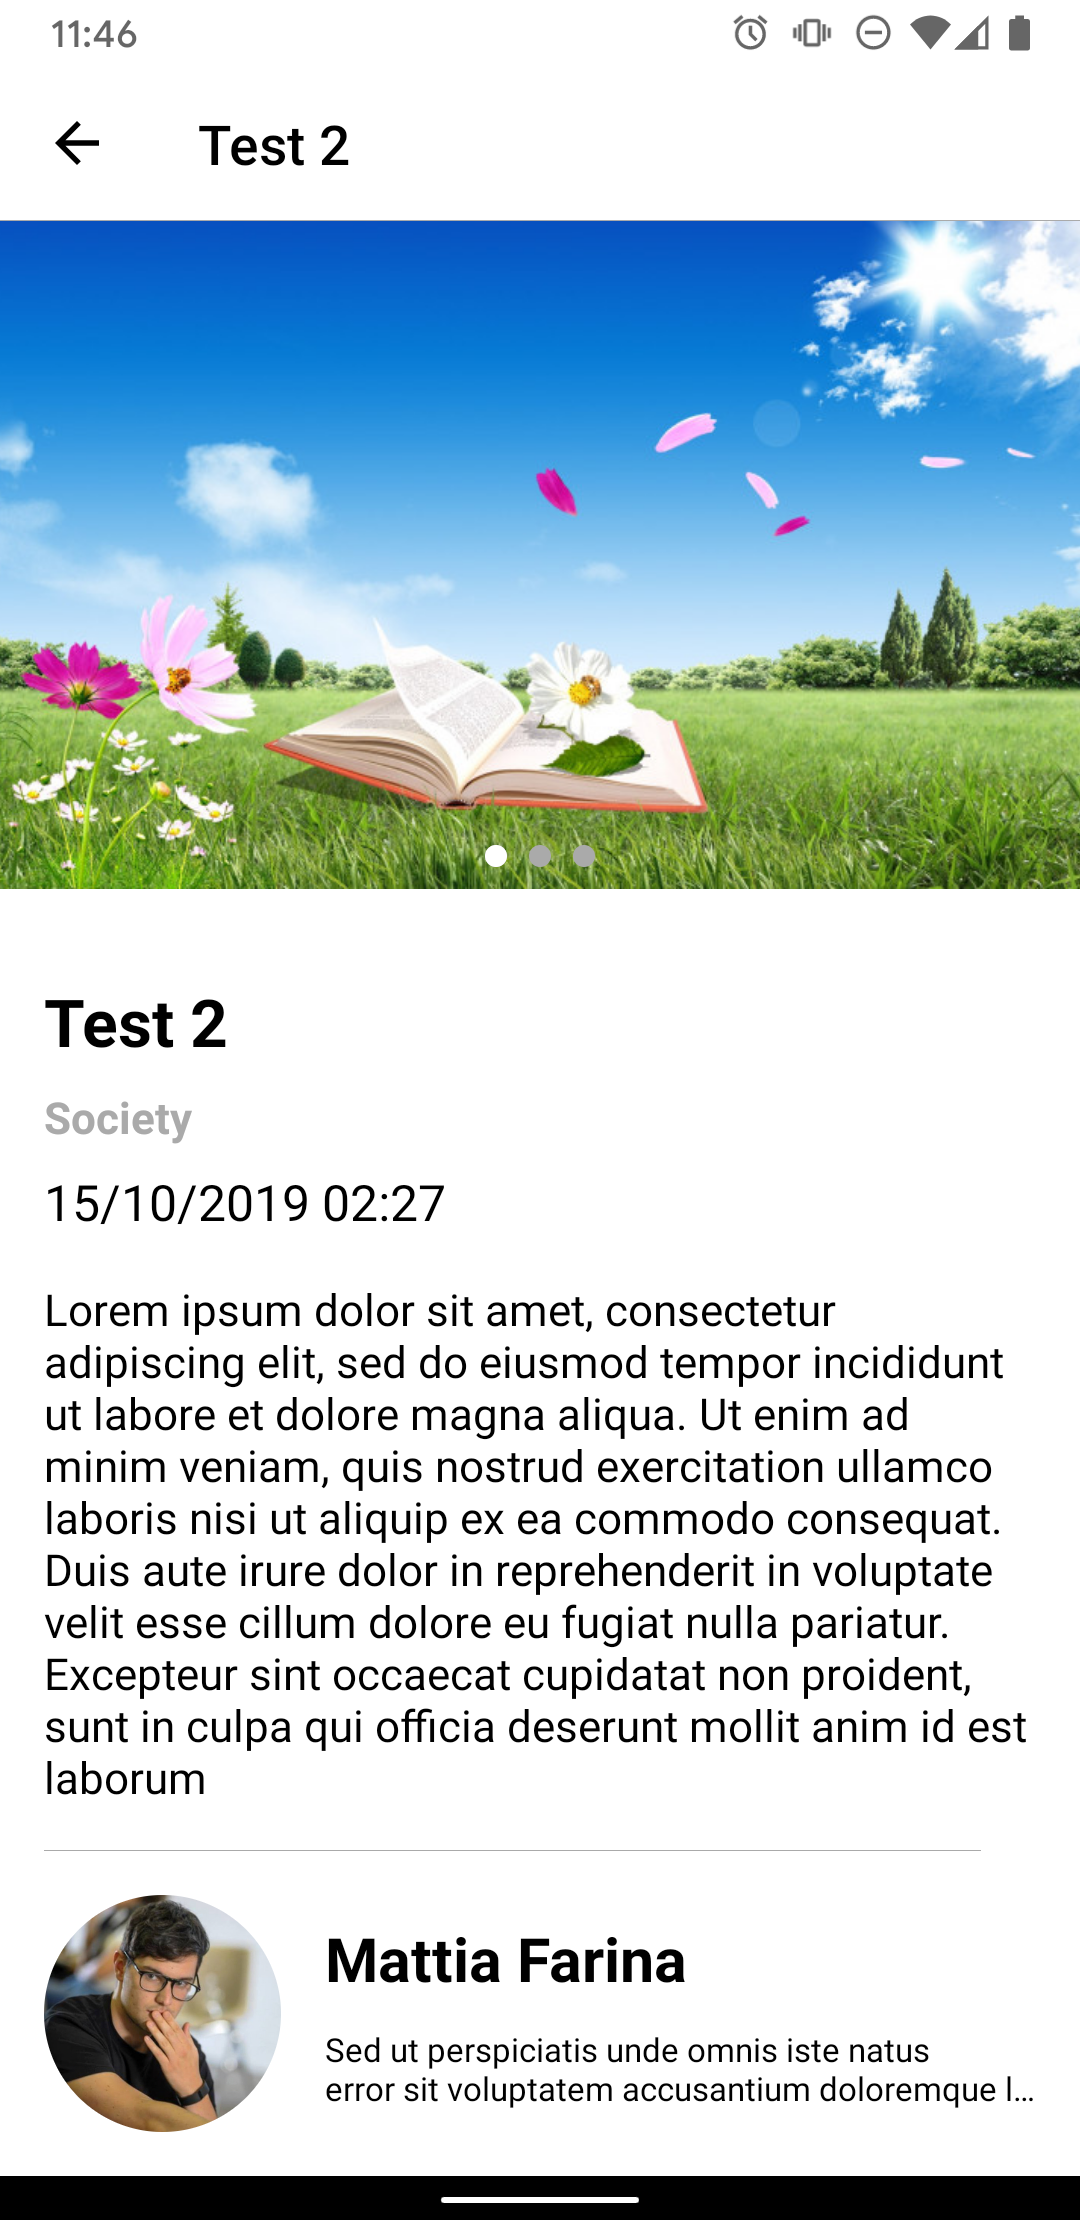
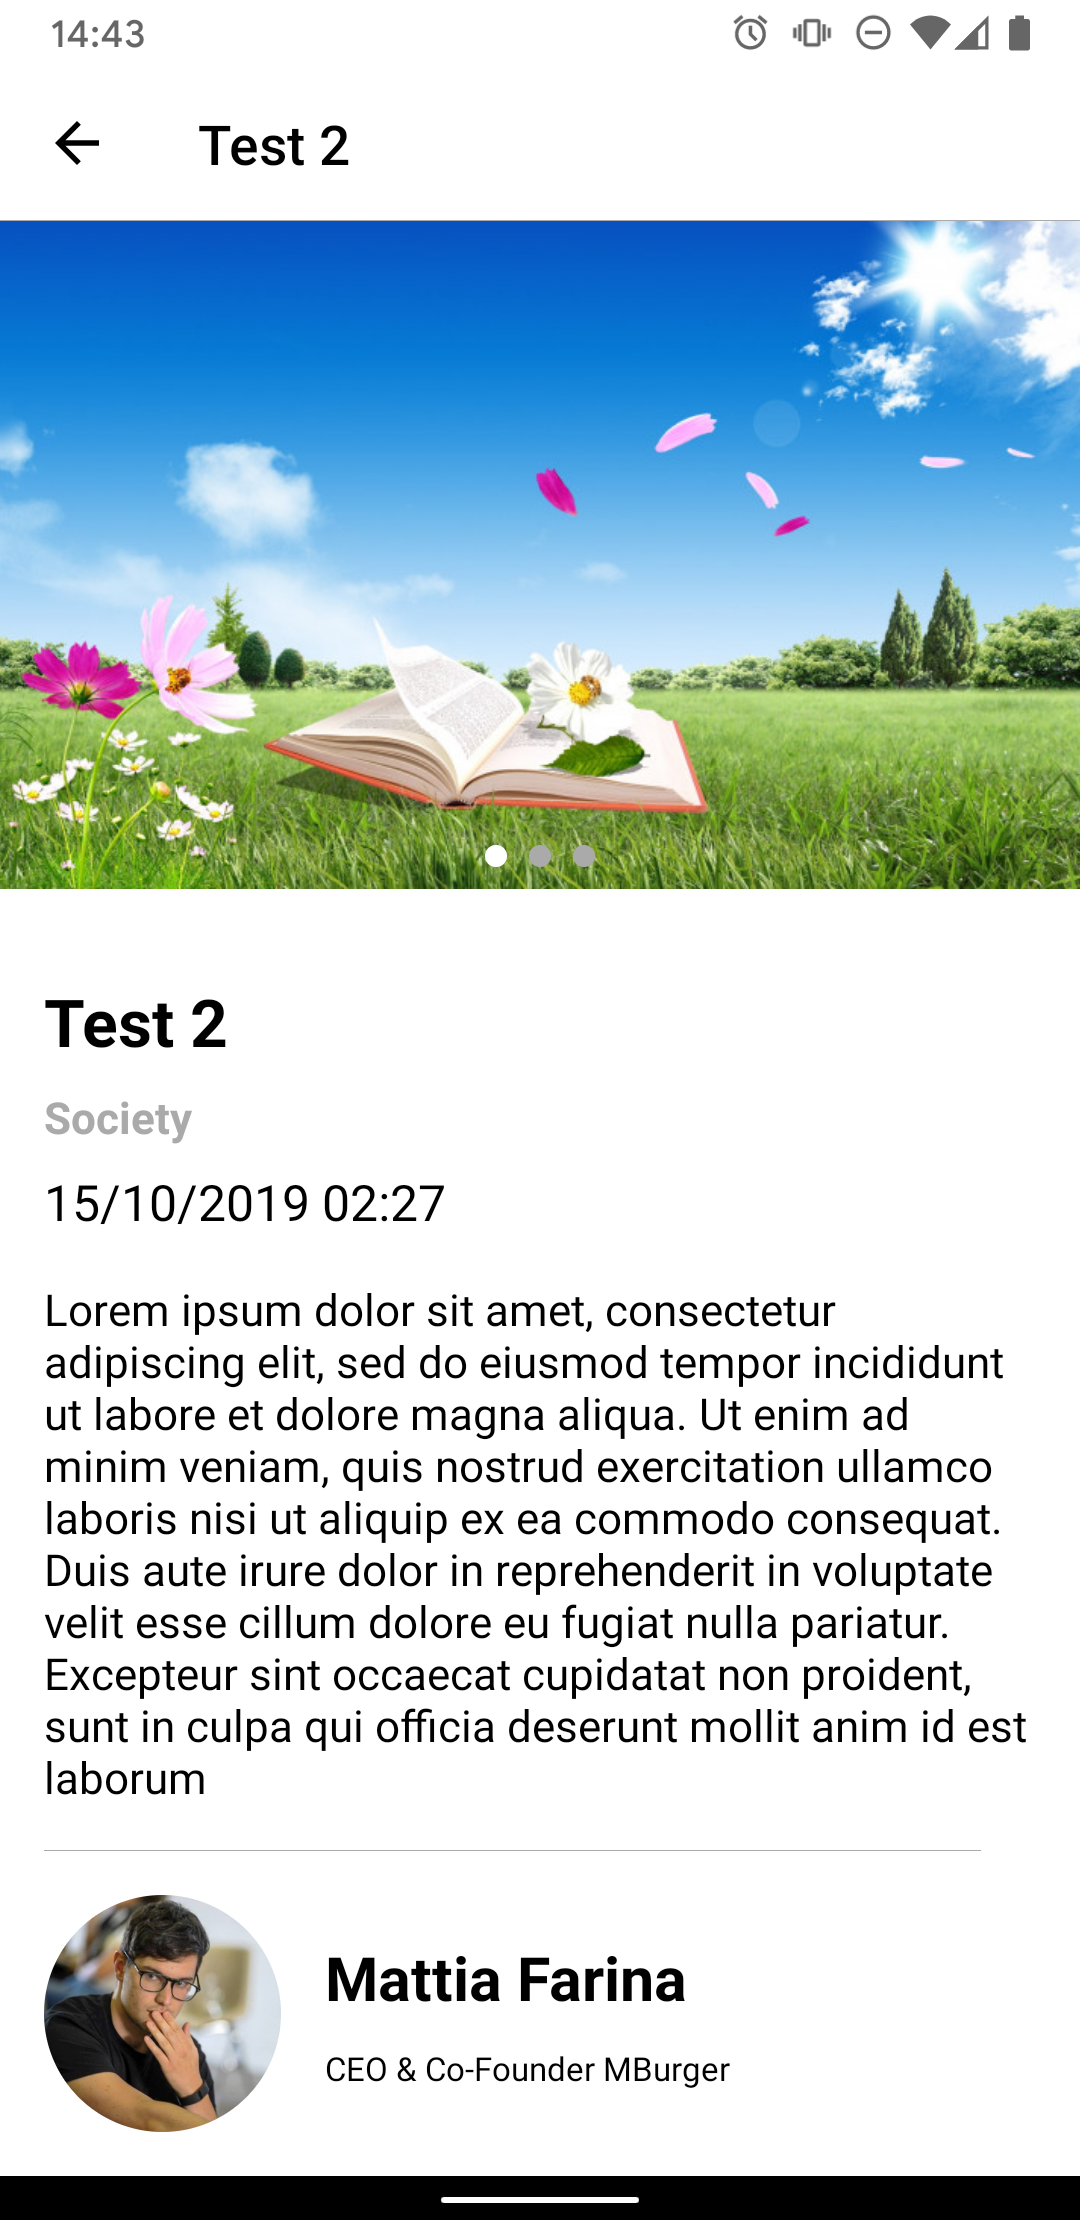
Fixes

Changed region(s): [[0.3056, 0.8703, 0.9167, 0.9635], [0.0611, 0.0, 0.1222, 0.0311]]

diff --git a/Android/4_MBurgerNewsRelation/app/src/main/java/com/mumble/mburger/relation_sample/Activities/Act_detail.kt b/Android/4_MBurgerNewsRelation/app/src/main/java/com/mumble/mburger/relation_sample/Activities/Act_detail.kt
@@ -97,7 +97,7 @@ class Act_detail : AppCompatActivity() {
 
     fun getAuthor() {
         if (news!!.author != null) {
-            if (news!!.author!!.block_id != Config.BLOCK_AUTHOR) {
+            if (news!!.author!!.block_id == Config.BLOCK_AUTHOR) {
                 MBurgerTasks.askForSection(applicationContext, news!!.author!!.section_id, true, object : MBApiSectionResultListener {
                     override fun onSectionApiResult(section: MBSection, section_id: Long) {
                         val fieldsMapping = MBFieldsMapping()
